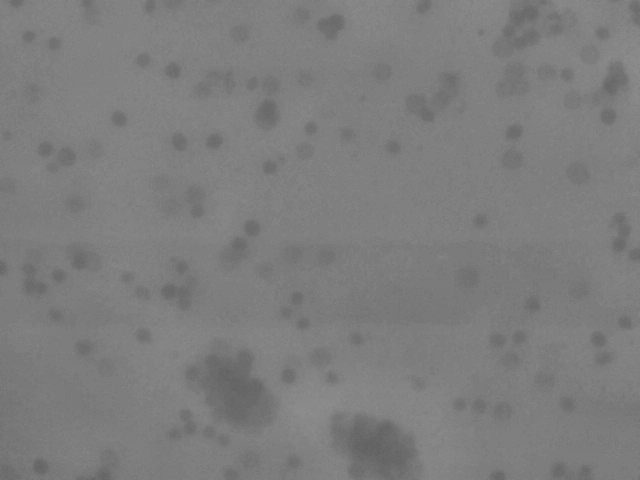
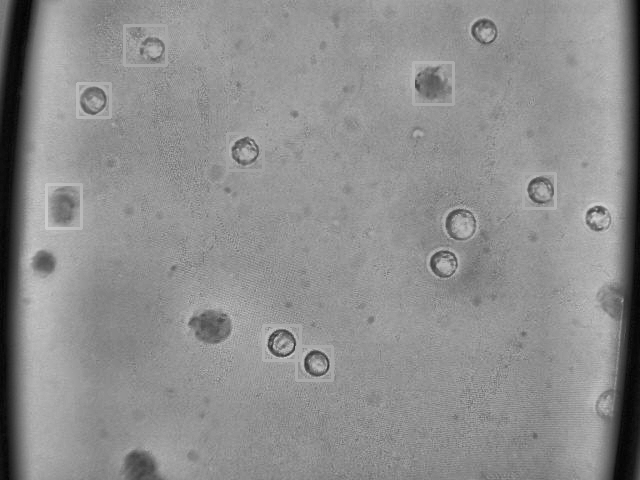
Bug fixes and debug improvements
- Now can correctly detect cells for good contrast images.
- Added more file savings for debugging steps.

diff --git a/python-version/cell_tracking_for_usbcam.py b/python-version/cell_tracking_for_usbcam.py
@@ -7,7 +7,7 @@ from parameter_control import UnifiedUI
 import os
 
 # Global variables for cell tracking and persistence
-CAMERASELECTED = 1  # 0~infinity for USB camera index
+CAMERASELECTED = 0  # 0~infinity for USB camera index
 previous_cells = []  # List to store bounding boxes of previously detected cells
 cell_lifetimes = []  # List to track the remaining frames each cell will be displayed
 CELL_MEMORY_FRAMES = 5  # Number of frames to keep tracking a cell after it disappears
@@ -140,21 +140,18 @@ def process_frame(frame, params, clahe_clip_limit=2.5, clahe_tile_size=10):
     # Clean up - using less aggressive thinning
     binary = morphology.thin(binary, max_num_iter=1)
 
-    # Additional cleaning steps to remove spider-web like noise while preserving cells
-    # 1. Use area opening with smaller threshold to preserve smaller cells
-    binary = morphology.remove_small_objects(binary, min_size=15)
-    
-    # 2. Remove thin connections using area closing with smaller kernel
-    kernel = cv2.getStructuringElement(cv2.MORPH_ELLIPSE, (2, 2))
-    binary = cv2.morphologyEx(binary.astype(np.uint8), cv2.MORPH_OPEN, kernel)
-    
-    # 3. Calculate and filter based on eccentricity with more lenient thresholds
+    # Fill small holes in cells to fix gaps
+    binary = morphology.remove_small_holes(binary.astype(bool), area_threshold=100)
+    binary = binary.astype(np.uint8) * 255
+
+    # Calculate and filter based on more lenient eccentricity
     labeled = measure.label(binary)
     props = measure.regionprops(labeled)
     mask = np.zeros_like(binary, dtype=bool)
     
     for prop in props:
-        if (prop.eccentricity < 0.98 and prop.area > 200) or (prop.area > 400):
+        # More lenient criteria for eccentricity and area
+        if (prop.eccentricity < 0.99 and prop.area > 100) or (prop.area > 300):
             mask[labeled == prop.label] = True
     
     binary = mask.astype(np.uint8) * 255
@@ -320,29 +317,64 @@ def process_frame_debug(frame, output_dir, clahe_clip_limit=2.5, clahe_tile_size
     cv2.imwrite(os.path.join(output_dir, '7-Thinned.png'), 
                 binary.astype(np.uint8) * 255)
 
-    # Additional cleaning steps
-    # 1. Use area opening with smaller threshold
-    binary = morphology.remove_small_objects(binary, min_size=15)
-    cv2.imwrite(os.path.join(output_dir, '8-SmallObjectsRemoved.png'), 
-                binary.astype(np.uint8) * 255)
-    
-    # 2. Remove thin connections using area closing
-    kernel = cv2.getStructuringElement(cv2.MORPH_ELLIPSE, (2, 2))
-    binary = cv2.morphologyEx(binary.astype(np.uint8), cv2.MORPH_OPEN, kernel)
-    cv2.imwrite(os.path.join(output_dir, '9-ThinConnectionsRemoved.png'), 
-                binary.astype(np.uint8) * 255)
-    
-    # 3. Calculate and filter based on eccentricity
+    # Fill small holes in cells to fix gaps
+    binary = morphology.remove_small_holes(binary.astype(bool), area_threshold=100)
+    binary = binary.astype(np.uint8) * 255
+    cv2.imwrite(os.path.join(output_dir, '8-HolesFilled.png'), binary)
+
+    # Calculate and filter based on more lenient eccentricity
     labeled = measure.label(binary)
     props = measure.regionprops(labeled)
     mask = np.zeros_like(binary, dtype=bool)
     
     for prop in props:
-        if (prop.eccentricity < 0.98 and prop.area > 200) or (prop.area > 400):
+        # More lenient criteria for eccentricity and area
+        if (prop.eccentricity < 0.99 and prop.area > 100) or (prop.area > 300):
             mask[labeled == prop.label] = True
     
     binary = mask.astype(np.uint8) * 255
-    cv2.imwrite(os.path.join(output_dir, '10-FinalSegmentation.png'), binary)
+    cv2.imwrite(os.path.join(output_dir, '9-FinalSegmentation.png'), binary)
+
+    # Find contours
+    contours, _ = cv2.findContours(binary, cv2.RETR_EXTERNAL, cv2.CHAIN_APPROX_SIMPLE)
+    
+    # Create visualization windows
+    display_frame = frame.copy()
+    black_window = np.zeros_like(frame)  # For green contours
+    white_window = np.zeros_like(frame)  # For white rectangles
+    final_seg = np.zeros_like(frame)
+    
+    # Process each contour with more lenient criteria
+    for contour in contours:
+        # Calculate properties
+        area = cv2.contourArea(contour)
+        perimeter = cv2.arcLength(contour, True)
+        circularity = 4 * np.pi * area / (perimeter * perimeter) if perimeter > 0 else 0
+        
+        # More lenient parameters for debug visualization
+        area_min, area_max = 100, 5000  # Reduced minimum area
+        perimeter_min, perimeter_max = 30, 1000  # Reduced minimum perimeter
+        circularity_min, circularity_max = 0.2, 1.0  # More lenient circularity
+        
+        # Check if the contour meets the criteria
+        if (area_min <= area <= area_max and
+            perimeter_min <= perimeter <= perimeter_max and
+            circularity_min <= circularity <= circularity_max):
+            
+            # Get bounding box
+            x, y, w, h = cv2.boundingRect(contour)
+            
+            # Draw green contour on black window
+            cv2.drawContours(black_window, [contour], -1, (0, 255, 0), 2)
+            cv2.drawContours(final_seg, [contour], -1, (0, 255, 0), -1)
+            
+            # Draw filled white rectangle on white window
+            cv2.rectangle(white_window, (x, y), (x + w, y + h), (255, 255, 255), -1)
+    
+    # Save additional debug images
+    cv2.imwrite(os.path.join(output_dir, '10-ContourOutlines.png'), black_window)
+    cv2.imwrite(os.path.join(output_dir, '11-BoundingBoxes.png'), white_window)
+    cv2.imwrite(os.path.join(output_dir, '12-FinalSegmentationColored.png'), final_seg)
 
     return binary
 
